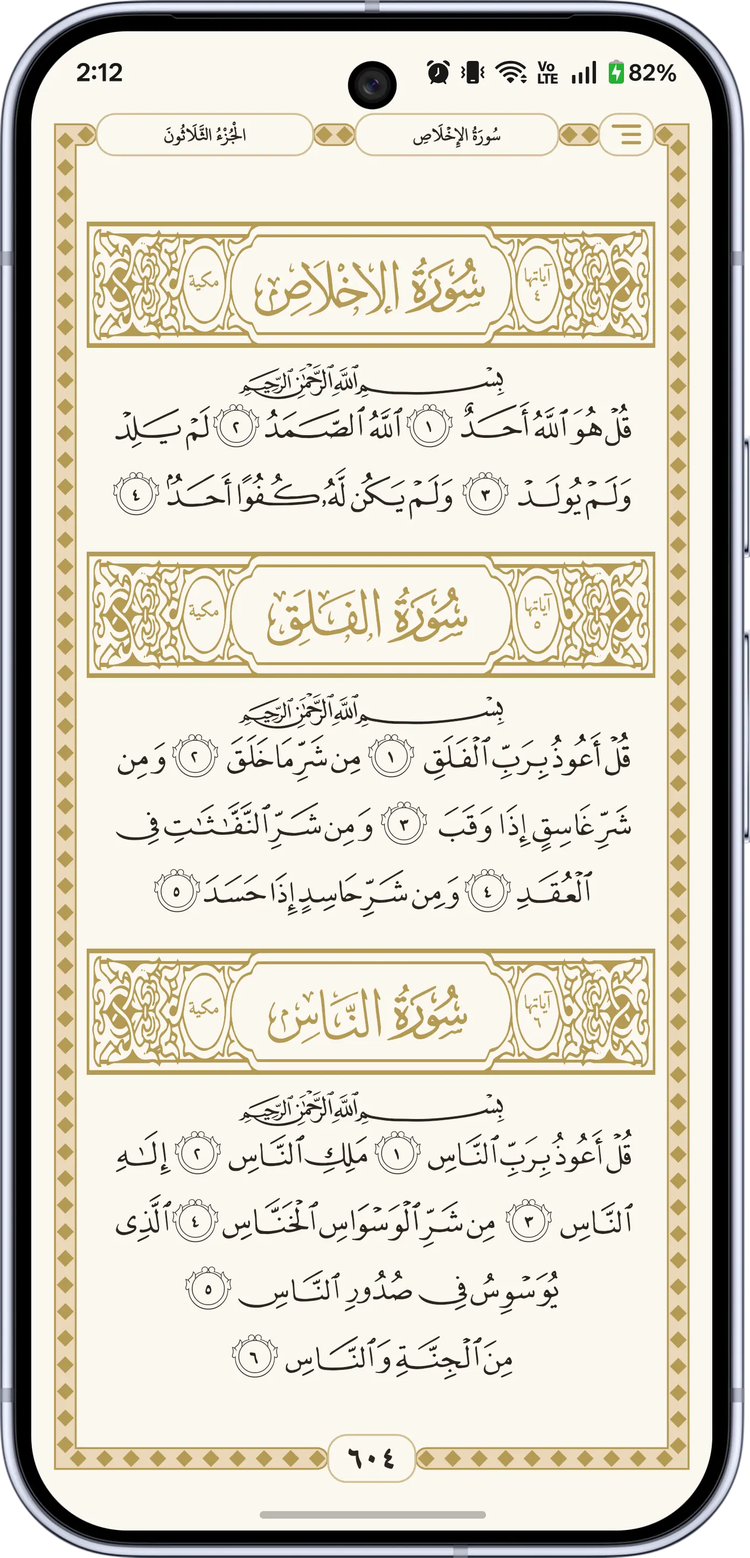
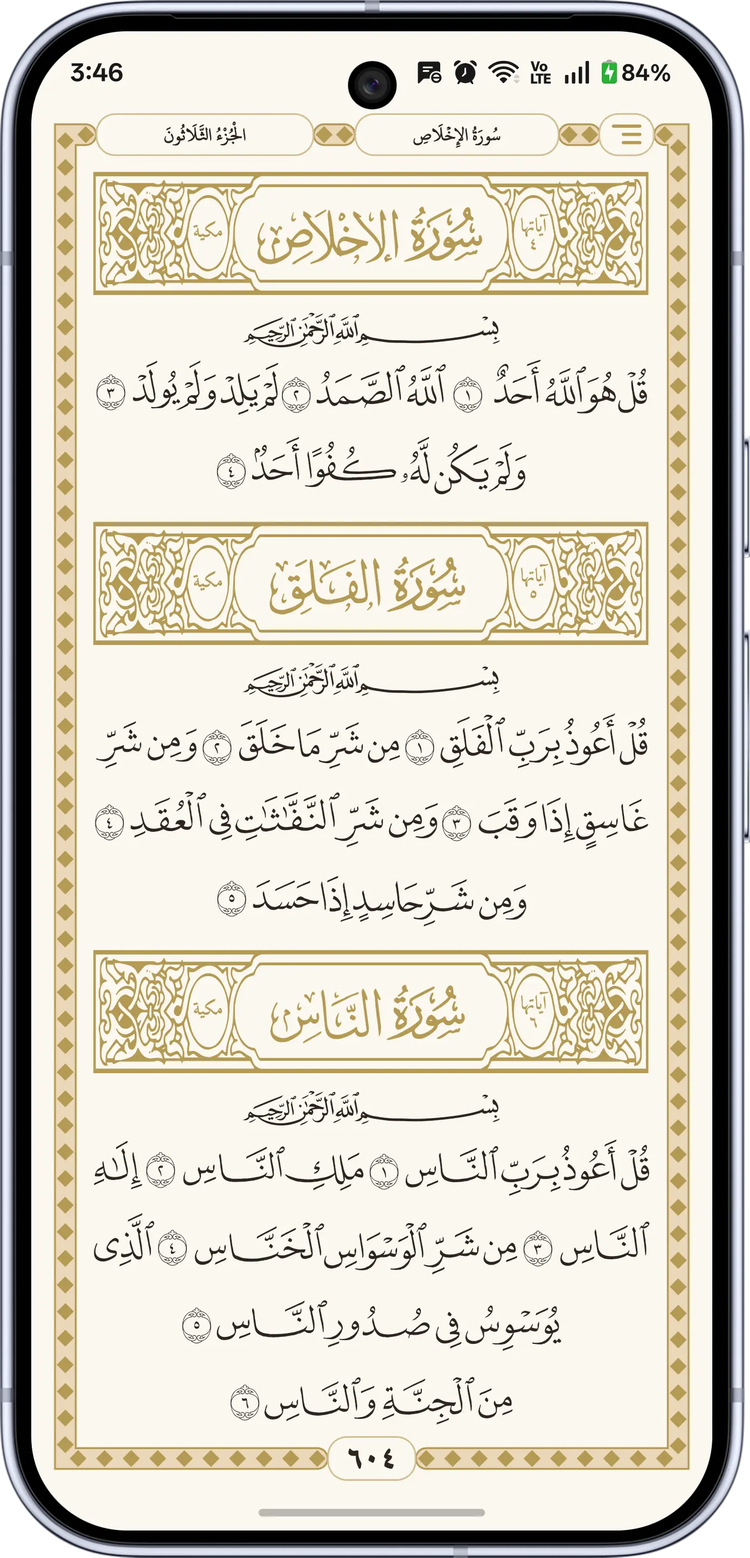
Refresh branding and website feature copy
Updates Tabattal’s public-facing messaging across README and docs site: refined Arabic brand spelling, added engine/license badges, expanded feature and architecture descriptions, and emphasized privacy/offline positioning. The docs landing page now links directly to Google Play, introduces a richer 8-card features grid, updates comparison/how-it-works sections, and includes a refreshed hero mockup image.

diff --git a/docs/index.html b/docs/index.html
@@ -99,7 +99,7 @@
                 </p>
                 
                 <div class="flex flex-col sm:flex-row gap-4 justify-center lg:justify-start pt-4">
-                    <a href="#download" class="magnetic-btn px-8 py-4 rounded-2xl bg-brand-gold text-brand-dark font-bold hover:bg-brand-goldHover transition-colors flex items-center justify-center gap-2 shadow-[0_0_30px_rgba(212,175,55,0.3)]">
+                    <a href="https://play.google.com/store/apps/details?id=com.omarafifi.tabattal" target="_blank" rel="noopener noreferrer" class="magnetic-btn px-8 py-4 rounded-2xl bg-brand-gold text-brand-dark font-bold hover:bg-brand-goldHover transition-colors flex items-center justify-center gap-2 shadow-[0_0_30px_rgba(212,175,55,0.3)]">
                         Download for Android
                         <svg class="w-5 h-5" fill="none" stroke="currentColor" viewBox="0 0 24 24"><path stroke-linecap="round" stroke-linejoin="round" stroke-width="2" d="M4 16v1a3 3 0 003 3h10a3 3 0 003-3v-1m-4-4l-4 4m0 0l-4-4m4 4V4"></path></svg>
                     </a>
@@ -127,60 +127,87 @@
     </header>
 
     <!-- Detailed Features Grid -->
-    <section id="features" class="min-h-[100svh] flex flex-col justify-center py-12 relative">
+    <section id="features" class="min-h-[100svh] flex flex-col justify-center py-16 xl:py-24 relative">
         <div class="max-w-7xl mx-auto px-6 w-full">
-            <div class="text-center mb-8 xl:mb-16 section-title">
+            <div class="text-center mb-12 xl:mb-20 section-title">
+                <div class="inline-flex items-center gap-2 px-3 py-1 rounded-full bg-brand-gold/10 border border-brand-gold/20 text-brand-gold text-xs font-semibold tracking-widest uppercase mb-4">
+                    Masterpiece Engineering
+                </div>
                 <h2 class="text-3xl md:text-5xl font-bold mb-4 xl:mb-6">Everything You Need <span class="text-transparent bg-clip-text bg-gradient-to-r from-brand-gold to-yellow-200">(And More)</span></h2>
-                <p class="text-brand-muted text-base xl:text-lg max-w-2xl mx-auto">We didn't cut any corners. Tabattal is packed with premium features wrapped in an elegant, distraction-free UI.</p>
+                <p class="text-brand-muted text-base xl:text-lg max-w-2xl mx-auto font-light">Every feature in Tabattal is crafted with uncompromising precision, merging sacred authenticity with modern engineering excellence.</p>
             </div>
             
-            <div class="grid md:grid-cols-3 gap-4 xl:gap-8">
-                <div class="feature-card glass p-5 xl:p-8 rounded-3xl hover:border-brand-gold/50 transition-colors group">
-                    <div class="w-10 h-10 xl:w-12 xl:h-12 rounded-full bg-brand-gold/10 text-brand-gold flex items-center justify-center mb-4 xl:mb-6 text-lg xl:text-xl group-hover:scale-110 transition-transform">
+            <div class="grid md:grid-cols-2 lg:grid-cols-4 gap-6 xl:gap-8">
+                <!-- Feature 1 -->
+                <div class="feature-card glass p-6 xl:p-8 rounded-3xl hover:border-brand-gold/50 transition-all duration-300 group hover:-translate-y-1">
+                    <div class="w-12 h-12 rounded-2xl bg-brand-gold/10 text-brand-gold flex items-center justify-center mb-6 text-xl group-hover:scale-110 transition-transform">
                         <i class="fas fa-vector-square"></i>
                     </div>
-                    <h3 class="text-lg xl:text-xl font-semibold mb-2 xl:mb-3">Pure Vector Rendering</h3>
-                    <p class="text-brand-muted text-xs xl:text-sm leading-relaxed">No blurry scanned pages. Infinite sharpness across all devices using the optimized KFGQPC fonts.</p>
+                    <h3 class="text-lg xl:text-xl font-semibold mb-2">QCF V2 Vector Engine</h3>
+                    <p class="text-brand-muted text-xs xl:text-sm leading-relaxed">Exact 15-line Madani Mushaf pagination rendered with official King Fahd Complex glyphs. Infinite vector clarity and smooth page transitions.</p>
                 </div>
                 
-                <div class="feature-card glass p-5 xl:p-8 rounded-3xl hover:border-brand-gold/50 transition-colors group">
-                    <div class="w-10 h-10 xl:w-12 xl:h-12 rounded-full bg-brand-gold/10 text-brand-gold flex items-center justify-center mb-4 xl:mb-6 text-lg xl:text-xl group-hover:scale-110 transition-transform">
+                <!-- Feature 2 -->
+                <div class="feature-card glass p-6 xl:p-8 rounded-3xl hover:border-brand-gold/50 transition-all duration-300 group hover:-translate-y-1">
+                    <div class="w-12 h-12 rounded-2xl bg-brand-gold/10 text-brand-gold flex items-center justify-center mb-6 text-xl group-hover:scale-110 transition-transform">
+                        <i class="fas fa-palette"></i>
+                    </div>
+                    <h3 class="text-lg xl:text-xl font-semibold mb-2">Verse Card Generator</h3>
+                    <p class="text-brand-muted text-xs xl:text-sm leading-relaxed">Create stunning, aesthetic sharing cards for single verses, verse ranges, or full Mushaf pages with optional Tafsir and 11 color palettes.</p>
+                </div>
+                
+                <!-- Feature 3 -->
+                <div class="feature-card glass p-6 xl:p-8 rounded-3xl hover:border-brand-gold/50 transition-all duration-300 group hover:-translate-y-1">
+                    <div class="w-12 h-12 rounded-2xl bg-brand-gold/10 text-brand-gold flex items-center justify-center mb-6 text-xl group-hover:scale-110 transition-transform">
+                        <i class="fas fa-sitemap"></i>
+                    </div>
+                    <h3 class="text-lg xl:text-xl font-semibold mb-2">Thematic Quran Search</h3>
+                    <p class="text-brand-muted text-xs xl:text-sm leading-relaxed">Explore the Quran categorized by themes (Aqeedah, Worship, Ethics, Prophets) alongside deep, root-normalized text search.</p>
+                </div>
+
+                <!-- Feature 4 -->
+                <div class="feature-card glass p-6 xl:p-8 rounded-3xl hover:border-brand-gold/50 transition-all duration-300 group hover:-translate-y-1">
+                    <div class="w-12 h-12 rounded-2xl bg-brand-gold/10 text-brand-gold flex items-center justify-center mb-6 text-xl group-hover:scale-110 transition-transform">
                         <i class="fas fa-headphones"></i>
                     </div>
-                    <h3 class="text-lg xl:text-xl font-semibold mb-2 xl:mb-3">Smart Audio Sync</h3>
-                    <p class="text-brand-muted text-xs xl:text-sm leading-relaxed">Perfect word-by-word tracking with world-renowned reciters. Download once, listen offline forever.</p>
-                </div>
-                
-                <div class="feature-card glass p-5 xl:p-8 rounded-3xl hover:border-brand-gold/50 transition-colors group">
-                    <div class="w-10 h-10 xl:w-12 xl:h-12 rounded-full bg-brand-gold/10 text-brand-gold flex items-center justify-center mb-4 xl:mb-6 text-lg xl:text-xl group-hover:scale-110 transition-transform">
-                        <i class="fas fa-moon"></i>
-                    </div>
-                    <h3 class="text-lg xl:text-xl font-semibold mb-2 xl:mb-3">Deep Dark Mode</h3>
-                    <p class="text-brand-muted text-xs xl:text-sm leading-relaxed">True OLED black backgrounds to reduce eye strain during Qiyam and late-night recitations.</p>
+                    <h3 class="text-lg xl:text-xl font-semibold mb-2">Audio & Offline Manager</h3>
+                    <p class="text-brand-muted text-xs xl:text-sm leading-relaxed">Download complete Surahs with cancellable tasks, background playback, and a dedicated "Play Once" mode for focused revision.</p>
                 </div>
 
-                <div class="feature-card glass p-5 xl:p-8 rounded-3xl hover:border-brand-gold/50 transition-colors group">
-                    <div class="w-10 h-10 xl:w-12 xl:h-12 rounded-full bg-brand-gold/10 text-brand-gold flex items-center justify-center mb-4 xl:mb-6 text-lg xl:text-xl group-hover:scale-110 transition-transform">
+                <!-- Feature 5 -->
+                <div class="feature-card glass p-6 xl:p-8 rounded-3xl hover:border-brand-gold/50 transition-all duration-300 group hover:-translate-y-1">
+                    <div class="w-12 h-12 rounded-2xl bg-brand-gold/10 text-brand-gold flex items-center justify-center mb-6 text-xl group-hover:scale-110 transition-transform">
+                        <i class="fas fa-book-open"></i>
+                    </div>
+                    <h3 class="text-lg xl:text-xl font-semibold mb-2">Grouped Tafsir Context</h3>
+                    <p class="text-brand-muted text-xs xl:text-sm leading-relaxed">Context-aware multi-verse Tafsir spans, instant commentaries, and precise English translations without leaving your page.</p>
+                </div>
+
+                <!-- Feature 6 -->
+                <div class="feature-card glass p-6 xl:p-8 rounded-3xl hover:border-brand-gold/50 transition-all duration-300 group hover:-translate-y-1">
+                    <div class="w-12 h-12 rounded-2xl bg-brand-gold/10 text-brand-gold flex items-center justify-center mb-6 text-xl group-hover:scale-110 transition-transform">
+                        <i class="fas fa-brain"></i>
+                    </div>
+                    <h3 class="text-lg xl:text-xl font-semibold mb-2">Memorization Test Tool</h3>
+                    <p class="text-brand-muted text-xs xl:text-sm leading-relaxed">Interactive in-reader ayah masking with tap-to-reveal controls, allowing effortless self-testing and verse-by-verse recall.</p>
+                </div>
+
+                <!-- Feature 7 -->
+                <div class="feature-card glass p-6 xl:p-8 rounded-3xl hover:border-brand-gold/50 transition-all duration-300 group hover:-translate-y-1">
+                    <div class="w-12 h-12 rounded-2xl bg-brand-gold/10 text-brand-gold flex items-center justify-center mb-6 text-xl group-hover:scale-110 transition-transform">
                         <i class="fas fa-sliders-h"></i>
                     </div>
-                    <h3 class="text-lg xl:text-xl font-semibold mb-2 xl:mb-3">Fluid Customization</h3>
-                    <p class="text-brand-muted text-xs xl:text-sm leading-relaxed">Choose between horizontal pagination (like a Mushaf) or vertical scrolling (like an article).</p>
+                    <h3 class="text-lg xl:text-xl font-semibold mb-2">11 Adaptive Themes</h3>
+                    <p class="text-brand-muted text-xs xl:text-sm leading-relaxed">Handcrafted palettes (Creamy, Rose Gold, Mint, Olive, Ice Blue, Slate, Emerald, Burgundy, Pure White, OLED Dark) with adaptive system chrome.</p>
                 </div>
 
-                <div class="feature-card glass p-5 xl:p-8 rounded-3xl hover:border-brand-gold/50 transition-colors group">
-                    <div class="w-10 h-10 xl:w-12 xl:h-12 rounded-full bg-brand-gold/10 text-brand-gold flex items-center justify-center mb-4 xl:mb-6 text-lg xl:text-xl group-hover:scale-110 transition-transform">
+                <!-- Feature 8 -->
+                <div class="feature-card glass p-6 xl:p-8 rounded-3xl hover:border-brand-gold/50 transition-all duration-300 group hover:-translate-y-1">
+                    <div class="w-12 h-12 rounded-2xl bg-brand-gold/10 text-brand-gold flex items-center justify-center mb-6 text-xl group-hover:scale-110 transition-transform">
                         <i class="fas fa-shield-alt"></i>
                     </div>
-                    <h3 class="text-lg xl:text-xl font-semibold mb-2 xl:mb-3">Offline-Ready & Private</h3>
-                    <p class="text-brand-muted text-xs xl:text-sm leading-relaxed">Download what you need, then go completely offline. No data collection, no trackers, and total privacy.</p>
-                </div>
-
-                <div class="feature-card glass p-5 xl:p-8 rounded-3xl hover:border-brand-gold/50 transition-colors group">
-                    <div class="w-10 h-10 xl:w-12 xl:h-12 rounded-full bg-brand-gold/10 text-brand-gold flex items-center justify-center mb-4 xl:mb-6 text-lg xl:text-xl group-hover:scale-110 transition-transform">
-                        <i class="fas fa-bookmark"></i>
-                    </div>
-                    <h3 class="text-lg xl:text-xl font-semibold mb-2 xl:mb-3">Seamless Bookmarks</h3>
-                    <p class="text-brand-muted text-xs xl:text-sm leading-relaxed">Automatically saves your last read page. Organize multiple bookmarks effortlessly.</p>
+                    <h3 class="text-lg xl:text-xl font-semibold mb-2">100% Private & Ad-Free</h3>
+                    <p class="text-brand-muted text-xs xl:text-sm leading-relaxed">Built as a pure Sadaqa Jariya. Zero advertisements, zero analytics tracking, and full offline-first functionality.</p>
                 </div>
             </div>
         </div>
@@ -198,8 +225,8 @@
                                 <svg class="w-4 h-4 text-brand-gold" fill="none" stroke="currentColor" viewBox="0 0 24 24"><path stroke-linecap="round" stroke-linejoin="round" stroke-width="2" d="M20.354 15.354A9 9 0 018.646 3.646 9.003 9.003 0 0012 21a9.003 9.003 0 008.354-5.646z"></path></svg>
                             </div>
                             <div>
-                                <h4 class="text-xl font-semibold mb-2">Deep Dark Mode</h4>
-                                <p class="text-brand-muted text-sm leading-relaxed">True black backgrounds OLED screens, reducing eye strain during Qiyam and late-night recitation.</p>
+                                <h4 class="text-xl font-semibold mb-2">11 Curated Visual Themes</h4>
+                                <p class="text-brand-muted text-sm leading-relaxed">From deep OLED blacks for night Qiyam to warm Parchment, Rose Gold, and Mint tones for prolonged daytime reading.</p>
                             </div>
                         </div>
                         <div class="flex gap-4">
@@ -208,7 +235,7 @@
                             </div>
                             <div>
                                 <h4 class="text-xl font-semibold mb-2">Fluid Scroll Directions</h4>
-                                <p class="text-brand-muted text-sm leading-relaxed">Prefer scrolling down like an article, or swiping left like a traditional Mushaf? The choice is entirely yours.</p>
+                                <p class="text-brand-muted text-sm leading-relaxed">Prefer scrolling continuously like an article, or flipping pages horizontally like a traditional Madani Mushaf? The choice is yours.</p>
                             </div>
                         </div>
                         <div class="flex gap-4">
@@ -216,8 +243,8 @@
                                 <svg class="w-4 h-4 text-brand-gold" fill="none" stroke="currentColor" viewBox="0 0 24 24"><path stroke-linecap="round" stroke-linejoin="round" stroke-width="2" d="M5 8h14M5 8a2 2 0 110-4h14a2 2 0 110 4M5 8v10a2 2 0 002 2h10a2 2 0 002-2V8m-9 4h4"></path></svg>
                             </div>
                             <div>
-                                <h4 class="text-xl font-semibold mb-2">Local First</h4>
-                                <p class="text-brand-muted text-sm leading-relaxed">Your data, bookmarks, and settings stay on your device. Download audio once, listen offline forever.</p>
+                                <h4 class="text-xl font-semibold mb-2">Offline-First Architecture</h4>
+                                <p class="text-brand-muted text-sm leading-relaxed">Your bookmarks, search indexes, tafsir texts, and downloaded recitations reside on your device, completely accessible without connectivity.</p>
                             </div>
                         </div>
                     </div>
@@ -273,19 +300,19 @@
                 <div class="text-center relative z-10 step-card">
                     <div class="w-24 h-24 mx-auto rounded-full bg-brand-dark border-2 border-brand-gold/30 flex items-center justify-center text-3xl font-bold text-brand-gold mb-8 shadow-[0_0_30px_rgba(212,175,55,0.15)]">01</div>
                     <h3 class="text-2xl font-bold mb-4">Install</h3>
-                    <p class="text-brand-muted">Download Tabattal for free from the App Store or Google Play with zero hidden fees.</p>
+                    <p class="text-brand-muted">Download Tabattal for free with a zero-telemetry, zero-ad promise.</p>
                 </div>
                 
                 <div class="text-center relative z-10 step-card">
                     <div class="w-24 h-24 mx-auto rounded-full bg-brand-dark border-2 border-brand-gold/30 flex items-center justify-center text-3xl font-bold text-brand-gold mb-8 shadow-[0_0_30px_rgba(212,175,55,0.15)]">02</div>
                     <h3 class="text-2xl font-bold mb-4">Personalize</h3>
-                    <p class="text-brand-muted">Select your preferred reciter, adjust the reading theme, and set your scroll direction.</p>
+                    <p class="text-brand-muted">Select your favorite reciter, pick from 11 curated reading themes, and customize your scroll flow.</p>
                 </div>
                 
                 <div class="text-center relative z-10 step-card">
                     <div class="w-24 h-24 mx-auto rounded-full bg-brand-dark border-2 border-brand-gold/30 flex items-center justify-center text-3xl font-bold text-brand-gold mb-8 shadow-[0_0_30px_rgba(212,175,55,0.15)]">03</div>
-                    <h3 class="text-2xl font-bold mb-4">Reflect</h3>
-                    <p class="text-brand-muted">Immerse yourself in the purest digital recitation experience, completely uninterrupted.</p>
+                    <h3 class="text-2xl font-bold mb-4">Reflect & Memorize</h3>
+                    <p class="text-brand-muted">Immerse yourself in flawless Quran recitation, explore thematic insights, and test your memorization seamlessly.</p>
                 </div>
             </div>
         </div>
@@ -303,21 +330,23 @@
                 <!-- Metrics -->
                 <div class="glass rounded-3xl p-8 flex flex-col justify-center space-y-8 text-lg font-medium text-brand-muted hidden md:flex">
                     <div class="h-12 flex items-center border-b border-white/5 pb-4">Typography</div>
-                    <div class="h-12 flex items-center border-b border-white/5 pb-4">Privacy</div>
-                    <div class="h-12 flex items-center border-b border-white/5 pb-4">Audio Sync</div>
-                    <div class="h-12 flex items-center">Monetization</div>
+                    <div class="h-12 flex items-center border-b border-white/5 pb-4">Sharing & Export</div>
+                    <div class="h-12 flex items-center border-b border-white/5 pb-4">Audio Pipeline</div>
+                    <div class="h-12 flex items-center border-b border-white/5 pb-4">Search System</div>
+                    <div class="h-12 flex items-center">Privacy & Monetization</div>
                 </div>
                 
                 <!-- Tabattal -->
                 <div class="bg-brand-darker border border-brand-gold/30 rounded-3xl p-8 shadow-[0_0_50px_rgba(212,175,55,0.05)] relative transform md:-translate-y-4">
                     <div class="absolute -top-4 left-1/2 -translate-x-1/2 bg-brand-gold text-brand-dark font-bold px-4 py-1 rounded-full text-sm">Tabattal</div>
-                    <h3 class="text-2xl font-bold text-center mb-10 text-brand-gold mt-4">تبتّل</h3>
+                    <h3 class="text-2xl font-bold text-center mb-10 text-brand-gold mt-4 font-arabic text-3xl">تَبَتَّلْ</h3>
                     
-                    <div class="space-y-8 text-center md:text-left text-white font-medium">
-                        <div class="h-12 flex items-center justify-center md:justify-start border-b border-white/5 pb-4"><i class="fas fa-check text-brand-gold mr-3"></i> Pure Vector</div>
-                        <div class="h-12 flex items-center justify-center md:justify-start border-b border-white/5 pb-4"><i class="fas fa-check text-brand-gold mr-3"></i> Offline-Ready</div>
-                        <div class="h-12 flex items-center justify-center md:justify-start border-b border-white/5 pb-4"><i class="fas fa-check text-brand-gold mr-3"></i> Perfect Sync</div>
-                        <div class="h-12 flex items-center justify-center md:justify-start"><i class="fas fa-check text-brand-gold mr-3"></i> 100% Free (No Ads)</div>
+                    <div class="space-y-8 text-center md:text-left text-white font-medium text-sm md:text-base">
+                        <div class="h-12 flex items-center justify-center md:justify-start border-b border-white/5 pb-4"><i class="fas fa-check text-brand-gold mr-3"></i> QCF V2 Vector (15-line)</div>
+                        <div class="h-12 flex items-center justify-center md:justify-start border-b border-white/5 pb-4"><i class="fas fa-check text-brand-gold mr-3"></i> Verse & Page Card Studio</div>
+                        <div class="h-12 flex items-center justify-center md:justify-start border-b border-white/5 pb-4"><i class="fas fa-check text-brand-gold mr-3"></i> Offline Manager + Play-Once</div>
+                        <div class="h-12 flex items-center justify-center md:justify-start border-b border-white/5 pb-4"><i class="fas fa-check text-brand-gold mr-3"></i> Thematic + Root Normalization</div>
+                        <div class="h-12 flex items-center justify-center md:justify-start"><i class="fas fa-check text-brand-gold mr-3"></i> 100% Free (0 Ads & 0 Trackers)</div>
                     </div>
                 </div>
                 
@@ -325,11 +354,12 @@
                 <div class="glass rounded-3xl p-8">
                     <h3 class="text-2xl font-bold text-center mb-10 text-white mt-4 opacity-50">Other Apps</h3>
                     
-                    <div class="space-y-8 text-center md:text-left text-brand-muted">
-                        <div class="h-12 flex items-center justify-center md:justify-start border-b border-white/5 pb-4"><i class="fas fa-times opacity-50 mr-3"></i> Blurry Images</div>
-                        <div class="h-12 flex items-center justify-center md:justify-start border-b border-white/5 pb-4"><i class="fas fa-times opacity-50 mr-3"></i> Data Trackers</div>
-                        <div class="h-12 flex items-center justify-center md:justify-start border-b border-white/5 pb-4"><i class="fas fa-times opacity-50 mr-3"></i> Basic Players</div>
-                        <div class="h-12 flex items-center justify-center md:justify-start"><i class="fas fa-times opacity-50 mr-3"></i> Intrusive Ads</div>
+                    <div class="space-y-8 text-center md:text-left text-brand-muted text-sm md:text-base">
+                        <div class="h-12 flex items-center justify-center md:justify-start border-b border-white/5 pb-4"><i class="fas fa-times opacity-50 mr-3"></i> Blurry Scans / Broken Lines</div>
+                        <div class="h-12 flex items-center justify-center md:justify-start border-b border-white/5 pb-4"><i class="fas fa-times opacity-50 mr-3"></i> Plain Text Copy Only</div>
+                        <div class="h-12 flex items-center justify-center md:justify-start border-b border-white/5 pb-4"><i class="fas fa-times opacity-50 mr-3"></i> Basic Web Streaming</div>
+                        <div class="h-12 flex items-center justify-center md:justify-start border-b border-white/5 pb-4"><i class="fas fa-times opacity-50 mr-3"></i> Exact-Match Keyword Only</div>
+                        <div class="h-12 flex items-center justify-center md:justify-start"><i class="fas fa-times opacity-50 mr-3"></i> Intrusive Ads & Telemetry</div>
                     </div>
                 </div>
             </div>
@@ -375,7 +405,7 @@
                 <p class="text-xl text-brand-muted mb-10 max-w-2xl mx-auto relative z-10">Download Tabattal today and experience the Holy Quran like never before.</p>
                 
                 <div class="flex justify-center gap-6 relative z-10">
-                    <a href="#" class="px-8 py-4 rounded-2xl bg-brand-gold text-brand-dark font-bold hover:bg-brand-goldHover transition-colors flex items-center justify-center gap-3">
+                    <a href="https://play.google.com/store/apps/details?id=com.omarafifi.tabattal" target="_blank" rel="noopener noreferrer" class="px-8 py-4 rounded-2xl bg-brand-gold text-brand-dark font-bold hover:bg-brand-goldHover transition-colors flex items-center justify-center gap-3">
                         <svg class="w-6 h-6" viewBox="0 0 24 24" fill="currentColor"><path d="M3.609 1.814L13.792 12l-10.183 10.186a1.5 1.5 0 01-.19-.71V2.524c0-.26.066-.506.19-.71zM14.542 12.75l2.25 2.25L5.617 21.481l8.925-8.73zm3.197-.881l3.078 1.777a1.5 1.5 0 010 2.596l-3.078 1.777-2.67-2.67 2.67-2.67zM14.542 11.25L5.617 2.519l11.175 6.48-2.25 2.251z"/></svg>
                         <div class="text-left">
                             <div class="text-xs opacity-70">GET IT ON</div>

diff --git a/README.md b/README.md
@@ -1,6 +1,6 @@
 <div align="center">
 
-# 📖 تبتّل | Tabattal
+# 📖 تَبَتَّلْ | Tabattal
 
 **The Purest, Most Precise Digital Mushaf Experience**
 
@@ -8,6 +8,8 @@
 [![Platform](https://img.shields.io/badge/Platform-Android-brightgreen)]()
 [![Architecture](https://img.shields.io/badge/Architecture-Clean%20Architecture-orange)]()
 [![State Management](https://img.shields.io/badge/State_Management-BLoC-blue)]()
+[![Engine](https://img.shields.io/badge/Font_Engine-QCF%20V2%20Vector-D4AF37)]()
+[![License](https://img.shields.io/badge/License-MIT-purple)]()
 
 *« وَاذْكُرِ اسْمَ رَبِّكَ وَتَبَتَّلْ إِلَيْهِ تَبْتِيلًا »*
 
@@ -17,60 +19,76 @@
 
 ## 🌟 The Vision (Why Tabattal?)
 
-The digital Quran app market is saturated, yet it suffers from two major compromises:
-1. **The "Image-Based" Compromise:** Apps use scanned images of the physical Mushaf. This results in massive app sizes, slow loading, and pixelated text when zooming in.
-2. **The "System Text" Compromise:** Apps render the Quran using standard system text. While lightweight, this completely destroys the sacred, standardized layout (line breaks and page dimensions) of the physical Madani Mushaf.
+The digital Quran app landscape is saturated, yet it frequently suffers from two fundamental compromises:
+1. **The "Scanned-Image" Compromise:** Apps rely on static page images of the physical Mushaf. This causes massive app bundles, slow initial loading, and pixelated text when zooming or reading on high-density displays.
+2. **The "Generic System Text" Compromise:** Apps render the Quran as standard unformatted body text. While lightweight, this completely destroys the sacred, standardized 15-line pagination and line breaks of the authentic Madani Mushaf.
 
-**Tabattal solves this.** By utilizing an advanced **Vector-based rendering engine** paired with the official KFGQPC fonts, Tabattal dynamically draws every word to perfectly match the exact line breaks and pagination of the physical Madani Mushaf. 
+**Tabattal bridges both worlds without compromise.** Powered by a custom **Vector-based rendering engine** utilizing official King Fahd Complex **QCF V2 glyph fonts**, Tabattal dynamically draws every word with mathematical precision to match the exact line breaks and pagination of the physical Madani Mushaf.
 
-Infinite zoom without losing quality, minimal app size, and absolute visual precision. No compromises.
+Infinite sharpness at any resolution, responsive page transitions, lightweight storage footprint, and zero visual compromises.
 
 ---
 
-## ✨ Unique Features & Advantages
+## ✨ Key Features & Capabilities
 
-### 🖌 Pixel-Perfect Vector Pagination
-Not a single image is used to render the Quran text. Everything is rendered via highly optimized vector text, maintaining 100% adherence to the physical Mushaf layout (15 lines per page) with crystal clear rendering on all screen sizes and densities.
+### 🖌 Pixel-Perfect QCF V2 Vector Pagination
+* **100% Authentic Madani Mushaf Layout:** Exactly 15 lines per page, matching the physical printed copy with genuine Quranic glyphs and stop signs.
+* **Smart Font & Page Caching:** Fast, responsive page transitions powered by background font archive streaming, LRU page caches, and glyph pre-warming.
 
-### 🧘♂ Zero Distractions (Pure Quran)
-Tabattal is built for reading and listening. No intrusive ads, no cluttered menus, no "social" feeds. Just you and the Quran.
+### 🎨 Verse Card Generator & Full-Page Export
+* **Custom Verse Sharing Cards:** Create stunning, high-resolution aesthetic cards for individual verses or selected verse ranges (up to 25 ayahs).
+* **Granular Content Controls:** Independently include or exclude authentic Tafsir and English translation in shared cards.
+* **Full-Page Snapshot Export:** Export the entire active Mushaf page framed with Islamic borders and theme styling.
+* **11 Curated Card Themes:** Perfectly matched color palettes with instantaneous gallery synchronization and Android media store indexing.
 
-### 🎨 Premium Visual Customization
-Ditch the standard "White or Black" options. Tabattal offers carefully curated, aesthetically pleasing themes:
-- **Creamy (كريمي):** Classic physical paper feel.
-- **Mint (نعناعي):** Soothing for long reading sessions.
-- **Ice Blue (أزرق ثلجي):** Modern, cold, and crisp.
-- **True Dark Mode (وضع داكن):** Perfectly balanced contrast for night reading, preserving the coloring of Ayah markers and Surah headers.
-- **Scroll Direction:** Choose between classic Horizontal (book-like) or modern Vertical scrolling.
+### 🔍 Thematic & Deep Text Search
+* **Quran Topics Catalog:** Explore the Holy Quran categorized by themes (Aqeedah, Acts of Worship, Ethics, Stories of the Prophets, and Social Conduct).
+* **Intelligent Keyword Engine:** Instant search with prefix/suffix normalization, surah name matching, and direct in-page verse highlighting.
 
-### 🎧 Seamless Audio Experience
-- **Smart Highlighting:** Words or Ayahs highlight in real-time syncing perfectly with the reciter.
-- **Robust Offline Support:** Download individual Surahs or entire Playlists seamlessly.
-- **Flawless Background Play:** Stable background execution, free from race conditions or playback overlaps.
+### 🎧 Comprehensive Audio & Offline Manager
+* **Extensive Reciter Catalog:** High-fidelity recitations across multiple categories: Murattal, Mujawwad, Warsh narration, Teacher mode, and English translations.
+* **Play-Once Mode:** Listen to a single verse and pause automatically for focused memorization, reflection, and manual repetition.
+* **Robust Offline Download Manager:** Download entire Surahs for offline listening with real-time progress indicators and instant cancellation tokens.
+* **Background Media Service:** Continuous playback with system lockscreen controls, notification actions, and resilient network recovery.
 
-### 📚 Integrated Tafsir & Translation
-Instantly access reliable Tafsirs and precise translations without leaving the page, fully available offline.
+### 📚 Grouped Tafsir & Translation
+* **Grouped Tafsir Context:** Smart detection and display of multi-verse commentary spans, showing continuation context across grouped passages.
+* **Streamlined Tafsir Downloader:** Fast, offline-accessible commentaries with one-tap downloads and live progress feedback.
+* **Authentic English Translations:** Clear, dignified English translations displayed alongside Arabic text.
+
+### 🧠 Interactive Memorization Test Mode (Hifz Tool)
+* **On-Page Ayah Masking:** Conceal verse text directly on the Mushaf page to test and reinforce memorization.
+* **Tap-to-Reveal & Floating Toolbar:** Seamlessly reveal verses line-by-line or ayah-by-ayah with dedicated floating revision controls.
+
+### 🎨 11 Handcrafted Mushaf Color Themes & Adaptive UI
+* **Curated Color Palettes:** Creamy, Parchment, Rose Gold, Mint, Olive, Ice Blue, Slate, Emerald, Burgundy, Pure White, and OLED Dark.
+* **Dedicated OLED Dark Mode:** True black backgrounds designed specifically for night reading and Qiyam, minimizing eye strain and preserving battery life.
+* **Luminance-Adaptive System Chrome:** Dynamic status bar and navigation bar contrast adapting automatically to the active theme.
+* **Custom Reading Flow:** Switch effortlessly between traditional horizontal book paging and modern vertical continuous scroll.
+
+### 🔒 100% Free, Private & Ad-Free (Sadaqa Jariya)
+* **Zero Advertisements & Zero Tracking:** No user tracking, no analytics telemetry, and no third-party ad SDKs.
+* **Offline-First:** All essential reading, search, and tafsir features work fully offline once downloaded.
 
 ---
 
 ## 🛠 Technical Stack & Architecture
 
-This project is built with production-ready standards, focusing on performance, scalability, and clean code principles:
+Tabattal is crafted according to strict architectural guidelines, modern performance standards, and Uncle Bob's Clean Architecture:
 
-- **Framework:** Flutter (Mobile & Web Support).
-- **State Management:** BLoC / Cubit (Predictable and reactive state streams).
-- **Architecture:** Uncle Bob's Clean Architecture (Domain, Data, and Presentation layers strictly decoupled).
-- **Audio Engine:** `just_audio` & `audio_service` for robust background media control.
-- **Local Storage:** `shared_preferences` & optimized local JSON caching.
-- **Responsive UI:** ScreenUtil for screen-relative, pixel-perfect dimensions across all form factors.
+* **Core Framework:** [Flutter](https://flutter.dev) (Targeting Android).
+* **State Management:** [BLoC / Cubit](https://bloclibrary.dev) (Predictable, testable, and reactive state streams).
+* **Architecture Pattern:** Clean Architecture (Strictly decoupled Domain, Data, and Presentation layers).
+* **Audio Pipeline:** `just_audio` & `audio_service` with Android MediaSession background capabilities.
+* **Database & Caching:** SQLite via `sqflite` with indexed word-level spatial lookup tables.
+* **Typography:** Modular 3-part split QCF V2 archive with runtime font registration via `FontService`.
+* **Static Analysis:** Strict zero-lint policy with optimized frame rendering and clean architectural hygiene.
 
 ---
 
 ## 📱 Download Now
 
-*(Coming Soon on Google Play)*
-
-<a href="#">
+<a href="https://play.google.com/store/apps/details?id=com.omarafifi.tabattal" target="_blank">
   <img src="https://play.google.com/intl/en_us/badges/static/images/badges/en_badge_web_generic.png" height="60" alt="Get it on Google Play">
 </a>
 
@@ -78,12 +96,12 @@ This project is built with production-ready standards, focusing on performance, 
 
 ## ☕ Support The Project
 
-Tabattal is an ad-free, open-source passion project built to provide the purest Quran reading experience. If this app helped you in your daily reading or provided you with a seamless listening experience without distractions, consider buying me a coffee! It keeps the development going and the updates coming.
+Tabattal is an ad-free, open-source passion project built as a **Sadaqa Jariya** to provide the purest Quran reading experience. If this app benefits your daily recitation and study, consider supporting ongoing development:
 
 <a href="https://ko-fi.com/omarafifi" target="_blank"><img src="https://cdn.ko-fi.com/cdn/kofi3.png?v=3" height="50" alt="Buy Me a Coffee at ko-fi.com" /></a>
 
 ---
 
 <div align="center">
-  <i>Made with ❤ and dedication to the Book of Allah.</i>
+  <i>Made with dedication to the Book of Allah.</i>
 </div>
